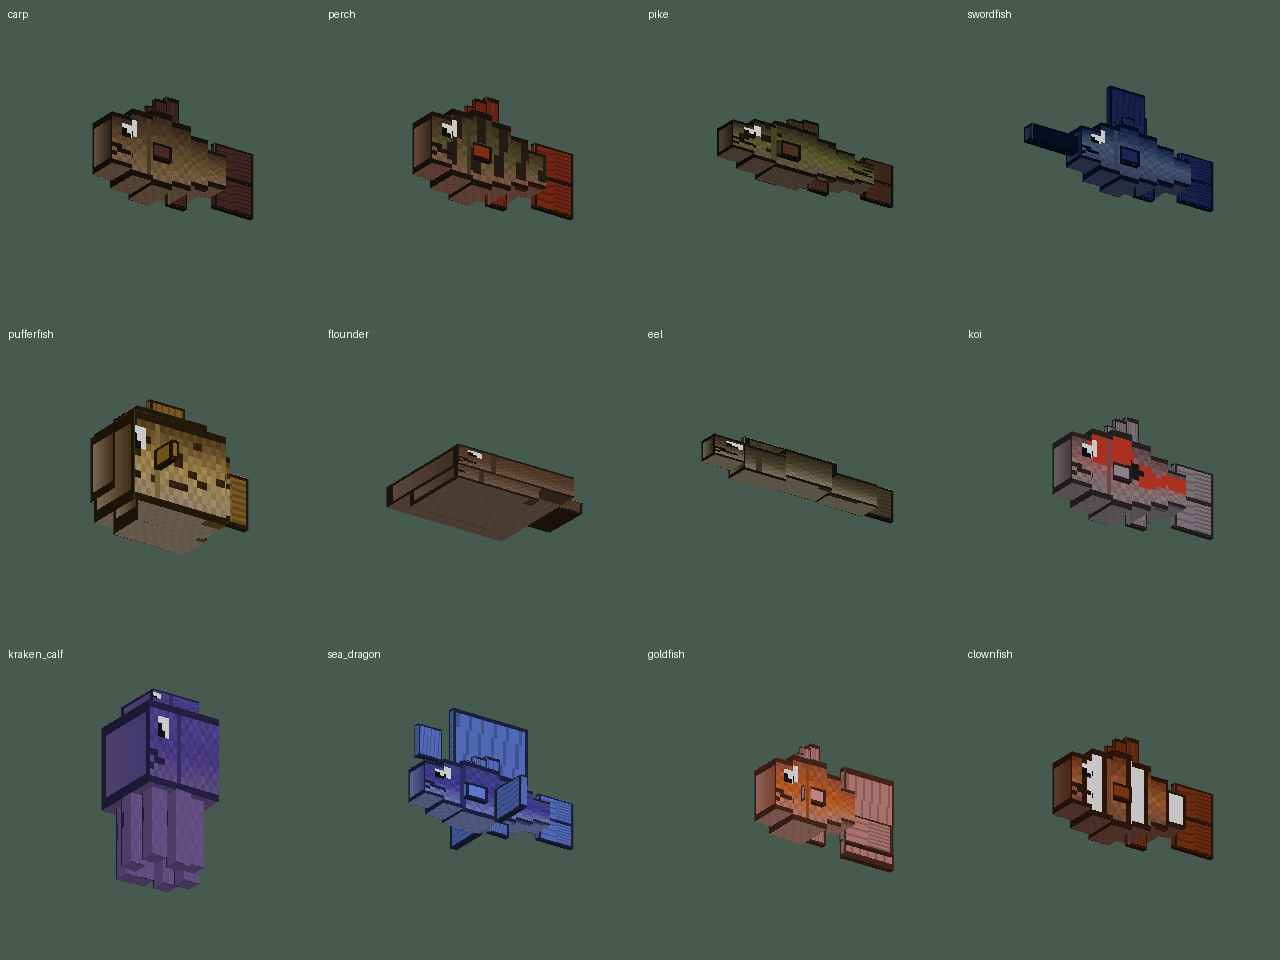
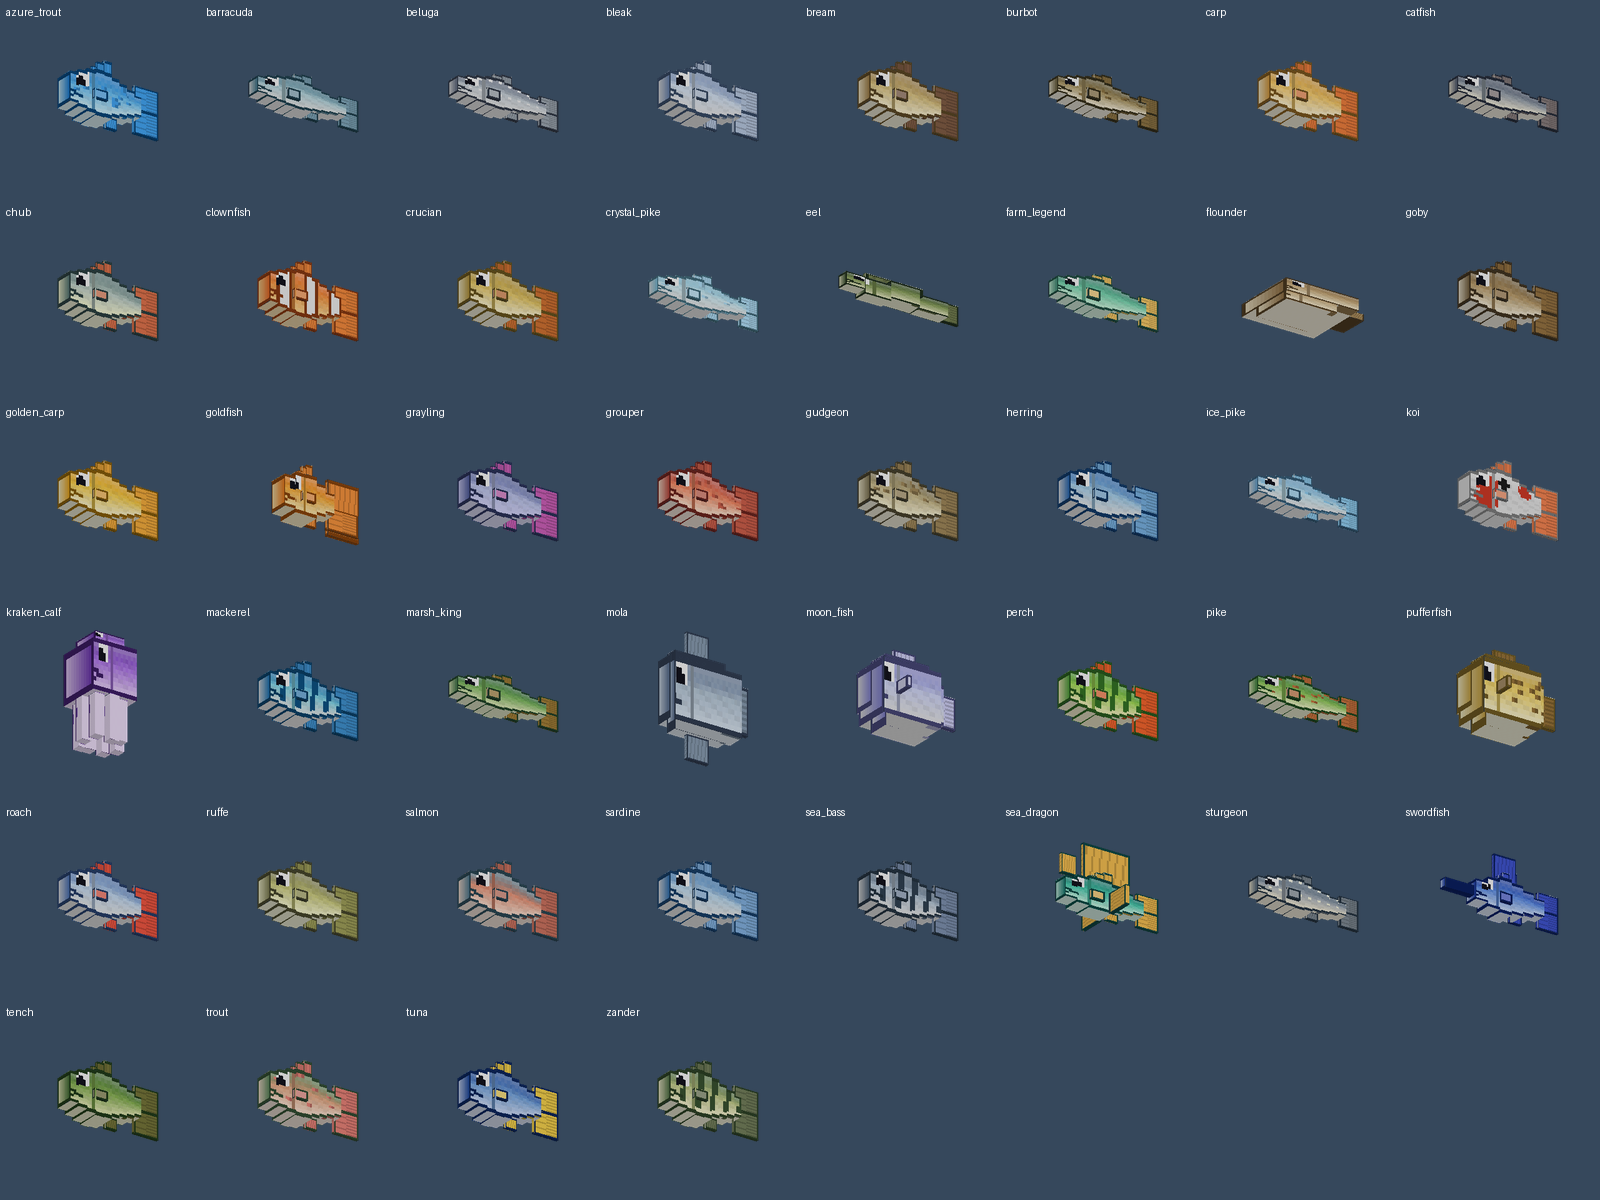
ZenFishing: генератор 3D-рыбы v2 — яркие палитры по видам, блики, плавное тело; превью
Claude-Session: https://claude.ai/code/session_015YcF29gpWmsD2yM9RNNMWT

diff --git a/ZenFishing/gui-specs/fish_models3d.py b/ZenFishing/gui-specs/fish_models3d.py
@@ -16,8 +16,63 @@ PATTERN = {'perch': 'stripes', 'mackerel': 'stripes', 'sea_bass': 'stripes', 'cl
            'trout': 'spots', 'pike': 'spots', 'grouper': 'spots', 'koi': 'patches', 'crystal_pike': 'spots', 'ice_pike': 'spots',
            'pufferfish': 'spots', 'burbot': 'spots', 'azure_trout': 'spots', 'sturgeon': 'scutes', 'beluga': 'scutes', 'gudgeon': 'spots'}
 
-def palette(im):
-    """Цвета по спрайту: спина (верхние ряды силуэта), бок, брюхо, плавники (хвостовая часть), глаз-акцент."""
+# Яркие палитры по видам: (спина, бок, брюхо, плавники). Для видов без записи — из спрайта с усилением насыщенности и яркости.
+PAL = {
+ 'carp': ((214,150,52),(246,200,96),(255,240,190),(232,120,56)),
+ 'perch': ((76,150,60),(158,214,80),(250,240,170),(240,96,40)),
+ 'roach': ((70,110,180),(176,206,240),(255,255,255),(236,80,60)),
+ 'bream': ((150,120,70),(214,190,120),(255,245,210),(120,90,70)),
+ 'herring': ((40,100,170),(150,200,235),(255,255,255),(110,170,220)),
+ 'pike': ((56,120,56),(140,196,86),(236,240,180),(190,110,60)),
+ 'trout': ((90,130,90),(226,160,120),(255,230,210),(230,120,110)),
+ 'catfish': ((70,80,100),(150,160,170),(240,230,200),(130,120,120)),
+ 'mackerel': ((30,110,170),(120,210,230),(255,255,255),(60,140,200)),
+ 'zander': ((80,110,70),(190,200,130),(255,250,220),(110,120,90)),
+ 'sturgeon': ((70,90,110),(160,170,180),(250,245,230),(120,130,140)),
+ 'tuna': ((30,70,150),(110,160,220),(240,245,255),(250,210,60)),
+ 'clownfish': ((236,100,30),(255,150,50),(255,210,120),(255,130,40)),
+ 'pufferfish': ((200,160,60),(246,214,96),(255,250,220),(140,110,60)),
+ 'golden_carp': ((230,160,20),(255,210,60),(255,245,180),(255,170,40)),
+ 'swordfish': ((30,60,160),(90,140,230),(230,240,255),(60,80,200)),
+ 'marsh_king': ((60,110,70),(120,180,90),(220,230,170),(150,120,60)),
+ 'moon_fish': ((120,120,210),(190,200,255),(255,255,255),(220,220,255)),
+ 'farm_legend': ((60,130,110),(110,210,170),(240,255,245),(255,200,80)),
+ 'azure_trout': ((30,120,200),(90,190,250),(230,250,255),(60,160,240)),
+ 'crystal_pike': ((110,190,220),(190,240,255),(255,255,255),(150,220,255)),
+ 'kraken_calf': ((110,60,170),(170,110,230),(240,220,255),(130,80,200)),
+ 'crucian': ((170,140,60),(226,196,96),(255,245,200),(200,110,50)),
+ 'bleak': ((100,130,180),(200,220,245),(255,255,255),(170,190,220)),
+ 'gudgeon': ((120,110,80),(196,180,130),(250,245,220),(150,130,90)),
+ 'ruffe': ((120,120,80),(200,200,120),(250,250,210),(150,150,90)),
+ 'goby': ((110,90,60),(180,150,100),(240,230,200),(140,110,70)),
+ 'sardine': ((50,110,170),(170,210,240),(255,255,255),(120,170,220)),
+ 'tench': ((60,100,50),(130,170,80),(230,230,170),(110,110,60)),
+ 'chub': ((80,110,110),(180,200,190),(255,255,240),(220,110,70)),
+ 'burbot': ((90,80,50),(170,150,100),(240,230,200),(130,110,70)),
+ 'flounder': ((140,110,70),(200,170,120),(255,250,235),(170,140,90)),
+ 'grayling': ((80,90,150),(170,180,230),(250,250,255),(200,90,180)),
+ 'eel': ((60,80,50),(130,150,90),(230,230,180),(110,120,80)),
+ 'salmon': ((80,120,140),(230,140,110),(255,220,200),(200,110,90)),
+ 'barracuda': ((60,110,130),(170,210,220),(255,255,255),(120,160,180)),
+ 'sea_bass': ((70,90,110),(170,190,210),(255,255,255),(120,140,170)),
+ 'koi': ((250,250,250),(255,255,255),(255,255,255),(255,120,60)),
+ 'grouper': ((180,70,60),(240,130,90),(255,220,190),(200,90,70)),
+ 'beluga': ((90,100,120),(190,200,210),(255,255,255),(150,160,170)),
+ 'mola': ((90,110,140),(170,190,210),(240,245,250),(130,150,170)),
+ 'ice_pike': ((90,160,210),(170,230,255),(255,255,255),(130,200,240)),
+ 'goldfish': ((240,120,20),(255,170,40),(255,230,150),(255,140,40)),
+ 'sea_dragon': ((30,120,110),(70,200,170),(220,255,240),(255,190,60)),
+}
+
+def boost(c, sat=1.35, light=1.15):
+    import colorsys
+    h, l, s_ = colorsys.rgb_to_hls(*[v / 255 for v in c])
+    r, g, b = colorsys.hls_to_rgb(h, min(0.92, l * light), min(1.0, s_ * sat))
+    return (int(r * 255), int(g * 255), int(b * 255))
+
+def palette(im, fid=None):
+    """Цвета вида: из PAL, иначе по спрайту (спина/бок/брюхо/плавники) с усилением яркости и насыщенности."""
+    if fid in PAL: return tuple(boost(c, 1.15, 1.08) for c in PAL[fid])
     px = im.load(); W, H = im.size
     pts = [(x, y) for y in range(H) for x in range(W) if px[x, y][3] > 0]
     ys = [y for _, y in pts]; xs = [x for x, _ in pts]
@@ -30,8 +85,7 @@ def palette(im):
     side = avg(lambda x, y: y0 + (y1 - y0) * 0.3 <= y < y0 + (y1 - y0) * 0.7 and x0 + (x1 - x0) * 0.15 < x < x1 - (x1 - x0) * 0.25)
     belly = avg(lambda x, y: y >= y0 + (y1 - y0) * 0.72 and x0 + (x1 - x0) * 0.15 < x < x1 - (x1 - x0) * 0.25)
     fin = avg(lambda x, y: x > x1 - (x1 - x0) * 0.18)
-    back = shade(back, 0.85); belly = mix(belly, (255, 255, 255), 0.2)
-    return back, side, belly, fin
+    return boost(back, 1.4, 1.1), boost(side, 1.4, 1.3), mix(boost(belly, 1.1, 1.4), (255, 255, 255), 0.5), boost(fin, 1.5, 1.25)
 
 def shade(c, k): return tuple(max(0, min(255, int(v * k))) for v in c)
 def mix(a, b, t): return tuple(int(a[i] * (1 - t) + b[i] * t) for i in range(3))
@@ -41,23 +95,25 @@ def make_texture(fid, pal, rnd):
     0..13 x 24..39 хвост; 14..29 x 24..31 спинной плавник; 30..37 x 24..29 грудной; 40..63 x 0..15 плавник большой (дракон)."""
     back, side, belly, fin = pal
     t = Image.new('RGBA', (64, 64), (0, 0, 0, 0)); d = ImageDraw.Draw(t); p = t.load()
-    outline = shade(back, 0.45)
-    # бок: вертикальный градиент спина→бок→брюхо + чешуя
+    outline = shade(back, 0.55)
+    # бок: вертикальный градиент спина→бок→брюхо, блик по верху, лёгкая чешуя (светлая, не затемняющая)
     for y in range(12):
         k = y / 11
-        c = mix(back, side, k * 2) if k < 0.5 else mix(side, belly, (k - 0.5) * 2)
+        c = mix(back, side, k * 2.2) if k < 0.45 else mix(side, belly, (k - 0.45) / 0.55)
+        if y == 1: c = mix(c, (255, 255, 255), 0.35)   # блик
+        if y == 2: c = mix(c, (255, 255, 255), 0.15)
         for x in range(32):
             cc = c
-            if (x + y) % 2 == 0 and 1 <= y <= 10: cc = shade(c, 0.88)   # чешуя
-            if ((x // 2 + y) % 3 == 0) and 2 <= y <= 9: cc = shade(cc, 1.08)
+            if (x + y) % 2 == 0 and 2 <= y <= 10: cc = mix(c, (255, 255, 255), 0.08)   # чешуя — чуть светлее
+            if ((x // 2 + y) % 3 == 0) and 3 <= y <= 9: cc = shade(cc, 0.95)
             p[x, y] = cc + (255,)
     pat = PATTERN.get(fid)
     if pat == 'stripes':
-        for x in range(6, 30, 5): d.line((x, 1, x + 1, 9), fill=shade(back, 0.6) + (255,), width=2)
+        for x in range(6, 30, 5): d.line((x, 1, x + 1, 9), fill=shade(back, 0.7) + (255,), width=2)
     elif pat == 'bands':
         for x in (8, 17, 26): d.rectangle((x, 0, x + 2, 11), fill=(245, 245, 245, 255)); d.line((x - 1, 0, x - 1, 11), fill=outline + (255,)); d.line((x + 3, 0, x + 3, 11), fill=outline + (255,))
     elif pat == 'spots':
-        for _ in range(16): x, y = rnd.randint(4, 29), rnd.randint(1, 8); p[x, y] = shade(back, 0.55) + (255,); p[min(31, x + 1), y] = shade(back, 0.65) + (255,)
+        for _ in range(14): x, y = rnd.randint(4, 29), rnd.randint(1, 8); p[x, y] = shade(fin, 0.8) + (255,); p[min(31, x + 1), y] = fin + (255,)
     elif pat == 'patches':
         for _ in range(4):
             x, y = rnd.randint(3, 24), rnd.randint(0, 6); d.ellipse((x, y, x + rnd.randint(4, 8), y + rnd.randint(3, 5)), fill=(214, 60, 40, 255))
@@ -67,19 +123,19 @@ def make_texture(fid, pal, rnd):
     # контур сверху/снизу, жаберная крышка и глаз у морды (морда — справа, x≈31)
     d.line((0, 0, 31, 0), fill=outline + (255,)); d.line((0, 11, 31, 11), fill=outline + (255,))
     d.line((24, 1, 24, 10), fill=shade(side, 0.75) + (255,))
-    d.rectangle((27, 2, 29, 4), fill=(250, 250, 250, 255)); p[29, 3] = (20, 20, 20, 255); p[28, 4] = (20, 20, 20, 255); p[29, 4] = (20, 20, 20, 255)
+    d.rectangle((26, 1, 29, 4), fill=(255, 255, 255, 255)); d.rectangle((27, 2, 29, 4), fill=(20, 20, 30, 255)); p[27, 2] = (255, 255, 255, 255)   # глаз: белок, зрачок, блик
     d.line((28, 8, 31, 7), fill=outline + (255,)); d.line((30, 8, 31, 9), fill=outline + (255,))   # рот
     # спина и брюхо
     for y in range(12, 18):
-        for x in range(32): p[x, y] = shade(back, 0.9 + 0.1 * ((x + y) % 2)) + (255,)
+        for x in range(32): p[x, y] = (mix(back, (255, 255, 255), 0.25) if y in (14, 15) else shade(back, 0.95 + 0.1 * ((x + y) % 2))) + (255,)   # спина со светлой полосой блика
     for y in range(18, 24):
-        for x in range(32): p[x, y] = shade(belly, 0.95 + 0.05 * ((x + y) % 2)) + (255,)
+        for x in range(32): p[x, y] = mix(belly, (255, 255, 255), 0.3 + 0.05 * ((x + y) % 2)) + (255,)
     # торцы (морда спереди, срез сзади)
     for y in range(12):
         for x in range(32, 40): p[x, y] = mix(back, belly, y / 11) + (255,)
     d.rectangle((32, 0, 39, 11), outline=outline + (255,))
     # хвост: веер с лучами
-    fd, fl = shade(fin, 0.8), shade(fin, 1.15)
+    fd, fl = shade(fin, 0.82), mix(fin, (255, 255, 255), 0.3)
     d.rectangle((0, 24, 13, 39), fill=fin + (255,))
     for y in range(24, 40, 2): d.line((0, y, 13, y + (1 if y % 4 else -1)), fill=fd + (255,))
     d.rectangle((0, 24, 13, 39), outline=outline + (255,))
@@ -129,7 +185,7 @@ def plate(fr, to, part, rot=None):
     if rot: e['rotation'] = rot
     return e
 
-def body_standard(h=6.0, w=3.0, L=13.0, tail=3.0, segs=6, snub=0.55):
+def body_standard(h=6.0, w=3.2, L=13.0, tail=3.0, segs=9, snub=0.55):
     """Тело из segs ступенчатых сегментов по профилю рыбы (пик высоты на 55% длины от хвоста), хвост раздвоенный,
     спинной плавник ступенчатым треугольником, грудные — маленькие пластины под углом."""
     cy = 8.0; els = []; CUR_L[0] = L
@@ -142,7 +198,7 @@ def body_standard(h=6.0, w=3.0, L=13.0, tail=3.0, segs=6, snub=0.55):
         k = prof((i + 0.5) / segs); hh = h * k; ww = w * (0.45 + 0.55 * k)
         els.append(box((x0, cy - hh / 2, 8 - ww / 2), (x1 + 0.01, cy + hh / 2, 8 + ww / 2)))
     # раздвоенный хвост: две лопасти под углом
-    th = h * 0.42
+    th = h * 0.5
     els.append(plate((0, cy, 7.8), (tail + 0.4, cy + th, 8.2), 'tail', rot={'origin': [tail + 0.4, cy, 8], 'axis': 'z', 'angle': -22.5}))
     els.append(plate((0, cy - th, 7.8), (tail + 0.4, cy, 8.2), 'tail', rot={'origin': [tail + 0.4, cy, 8], 'axis': 'z', 'angle': 22.5}))
     # спинной плавник — три ступени
@@ -161,7 +217,7 @@ def body_standard(h=6.0, w=3.0, L=13.0, tail=3.0, segs=6, snub=0.55):
                          rot={'origin': [hx, cy, z], 'axis': 'y', 'angle': 22.5 * sgn}))
     return els
 
-def body_long(): return body_standard(h=3.8, w=2.6, L=14.5, tail=2.2, segs=7, snub=0.45)
+def body_long(): return body_standard(h=3.8, w=2.6, L=14.5, tail=2.2, segs=10, snub=0.45)
 def body_eel():
     els = []; cy = 8.0; CUR_L[0] = 16.0
     for i, (x0, x1, h) in enumerate(((2, 6, 1.8), (6, 10, 2.2), (10, 13.5, 2.0), (13.5, 16, 1.6))):
@@ -230,10 +286,10 @@ DISPLAY = {"gui": {"rotation": [25, 35, 0], "translation": [0, 0, 0], "scale": [
 
 made = []
 for f in sorted(os.listdir(SRC)):
-    if not f.endswith('.png'): continue
+    if not f.endswith('.png') or f.startswith('_'): continue
     fid = f[:-4]; im = Image.open(f'{SRC}/{f}').convert('RGBA')
     rnd = random.Random(hash(fid) & 0xffff)
-    tex = make_texture(fid, palette(im), rnd); tex.save(f'{OUT_T}/{fid}.png')
+    tex = make_texture(fid, palette(im, fid), rnd); tex.save(f'{OUT_T}/{fid}.png')
     els = BUILD[KIND.get(fid, 'standard')]()
     model = {"credit": "ZenFishing fish_models3d.py", "texture_size": [64, 64],
              "textures": {"0": f"zenfishing:item/fish3d/{fid}", "particle": f"zenfishing:item/fish3d/{fid}"},
@@ -260,7 +316,7 @@ if len(sys.argv) > 4:
             P = {'a': (x0, y0, z0), 'b': (x1, y0, z0), 'c': (x1, y1, z0), 'd': (x0, y1, z0), 'e': (x0, y0, z1), 'f': (x1, y0, z1), 'g': (x1, y1, z1), 'h': (x0, y1, z1)}
             # порядок углов грани: (uv0,uv1) → верх-лево … как рисует Minecraft (север смотрит на -z)
             order = {'north': 'cbad', 'south': 'hgfe', 'up': 'hgcd', 'down': 'abfe', 'east': 'gfbc', 'west': 'dhea'}
-            shade_k = {'north': 0.8, 'south': 0.8, 'up': 1.0, 'down': 0.55, 'east': 0.65, 'west': 0.65}
+            shade_k = {'north': 0.8, 'south': 0.8, 'up': 1.0, 'down': 0.6, 'east': 0.7, 'west': 0.7}
             for name, quad in order.items():
                 uv = e['faces'][name]['uv']; u0, v0, u1, v1 = [v * 4 for v in uv]
                 pts = [proj(*P[k]) for k in quad]; depth = sum(p[2] for p in pts) / 4
@@ -281,8 +337,15 @@ if len(sys.argv) > 4:
                 dark = Image.new('RGBA', (320, 320), (0, 0, 0, int(255 * (1 - k)))); face = Image.alpha_composite(face, dark)
             img.paste(face, (0, 0), mask)
         return img
-    show = ['carp', 'perch', 'pike', 'swordfish', 'pufferfish', 'flounder', 'eel', 'koi', 'kraken_calf', 'sea_dragon', 'goldfish', 'clownfish']
-    pv = Image.new('RGBA', (4 * 320, 3 * 320), (70, 90, 80, 255)); dr = ImageDraw.Draw(pv)
+    show = made
+    close = ['carp', 'perch', 'pike', 'clownfish', 'goldfish', 'tuna', 'sea_dragon', 'koi']
+    cl = Image.new('RGBA', (4 * 320, 2 * 320), (54, 72, 92, 255)); dcl = ImageDraw.Draw(cl)
+    for i, fid in enumerate(close):
+        if fid in made: cl.alpha_composite(render(fid), ((i % 4) * 320, (i // 4) * 320)); dcl.text(((i % 4) * 320 + 8, (i // 4) * 320 + 8), fid, fill=(255, 255, 255, 255))
+    cl.save(sys.argv[4].replace('.png', '_close.png'))
+    cols = 8; rows = (len(show) + cols - 1) // cols; T = 200
+    pv = Image.new('RGBA', (cols * T, rows * T), (54, 72, 92, 255)); dr = ImageDraw.Draw(pv)
     for i, fid in enumerate(show):
-        if fid in made: pv.alpha_composite(render(fid), ((i % 4) * 320, (i // 4) * 320)); dr.text(((i % 4) * 320 + 8, (i // 4) * 320 + 8), fid, fill=(255, 255, 255, 255))
+        im = render(fid).resize((T, T), Image.LANCZOS)
+        pv.alpha_composite(im, ((i % cols) * T, (i // cols) * T)); dr.text(((i % cols) * T + 6, (i // cols) * T + 6), fid, fill=(255, 255, 255, 255))
     pv.save(sys.argv[4]); print('preview ok')
